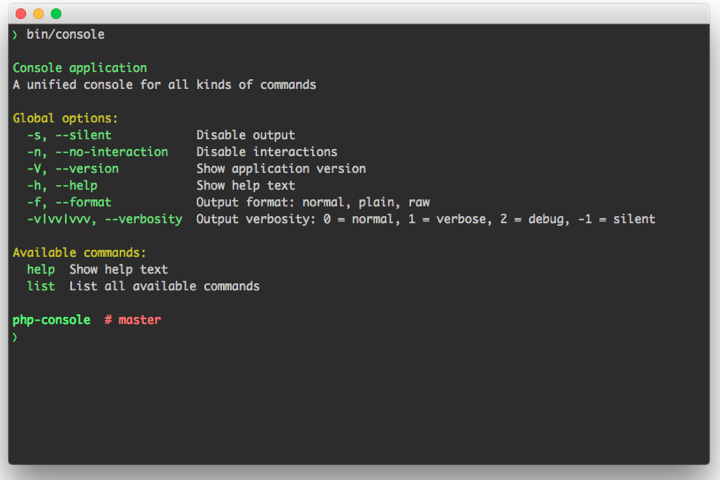
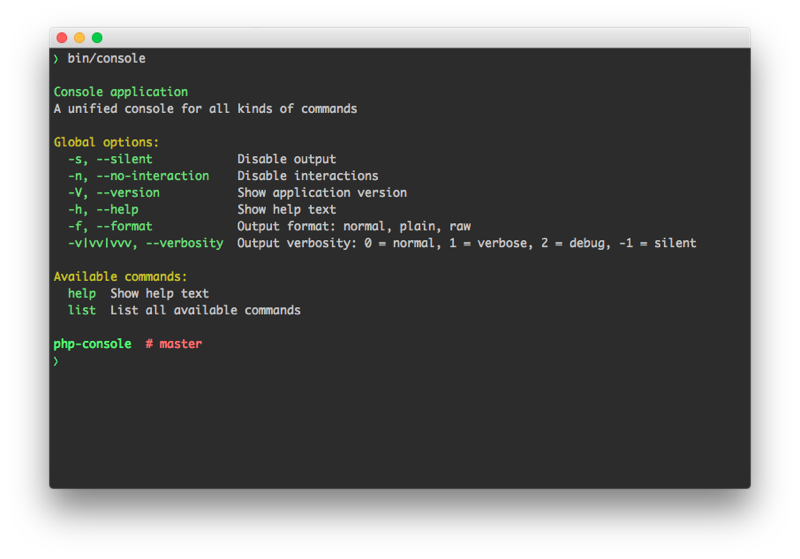
Fixing screenshot.

diff --git a/readme.md b/readme.md
@@ -25,7 +25,7 @@
 
 ## Introduction
 
-![Screenshot](screenshot.jpg?raw=true)
+![Screenshot](screenshot.png?raw=true)
 
 This package provides a convenient skeleton for console application. Optically, heavily inspired by the symfony console it has it similarities and differences. Describing commands, parsing console arguments, styling and colorization of output, question helpers etc., all this is included inside this package. In [related projects](#related-projects) you'll find a list of used components that you might also use separately from this package.
 
